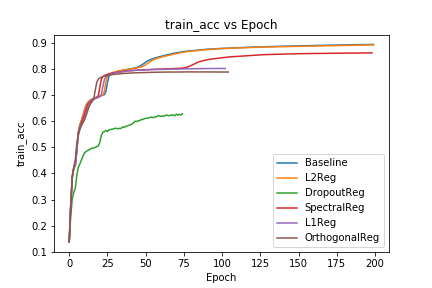
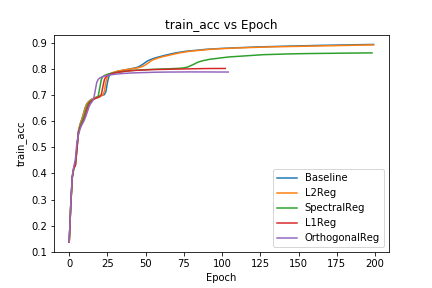
add cifar data

diff --git a/MNIST_experiment/visualize.py b/MNIST_experiment/visualize.py
@@ -1,6 +1,6 @@
 #%%
 import neptune
-project = neptune.init('gebob19/672-mnist')
+project = neptune.init('gebob19/672-cifar')
 
 # %%
 exps = project.get_experiments()
@@ -9,37 +9,43 @@ best_exps = [e for e in exps if 'best' in e.get_tags()]
 # %%
 def get_values(experiment):
     channel_names = list(experiment.get_logs().keys())
-    data = experiment.get_numeric_channels_values(*channel_names[:-1])
+    data = experiment.get_numeric_channels_values(*channel_names)
     return data 
 
 #%%
 best_exps_values = [get_values(e) for e in best_exps]
 
-#%%
-for data, exp in zip(best_exps_values, best_exps):
-    name = exp.name
-    l = exp.get_parameters()['reg_constant']
-    if name == 'DropoutReg':
-        l = exp.get_parameters()['dropout_constant']
-    if name == 'Baseline':
-        l = 'n/a'
-    test_acc = data['test_acc'].values[-1]
-    train_acc = data['train_acc'].values[-2]
-    loss = data['loss'].values[-2]
-    largest_singular_value = data['sum_singular_value'].values[-2]
-    w_norm = data['w_norm'].values[-2]
-
-    print('{}: {:.2f} {:.2f} {} {:.2f} {:.2f}'.format(name, test_acc, train_acc, l, largest_singular_value, w_norm)) 
-
-#%%
+# #%%
 # # remove dropout for better visualizations 
+# exp_names = [e.name for e in best_exps]
 # dropout_index = exp_names.index('DropoutReg')
 # del best_exps[dropout_index]
 # del best_exps_values[dropout_index]
 
 #%%
+for data, exp in zip(best_exps_values, best_exps):
+    name = exp.name
+    params = exp.get_parameters()
+    l = params['reg_constant']
+    if name == 'DropoutReg':
+        l = params['dropout_constant']
+    if name == 'Baseline':
+        l = 'n/a'
+    test_acc = data['test_acc'].values[-1]
+    train_acc = data['train_acc'].values[-2]
+    kreg, dreg = params['kernel_regularization'], params['dense_regularization']
+
+    # loss = data['loss'].values[-2]
+    # largest_singular_value = data['sum_singular_value'].values[-2]
+    # w_norm = data['w_norm'].values[-2]
+
+    # print('{}: {:.2f} {:.2f} {} {:.2f} {:.2f}'.format(name, test_acc, train_acc, l, largest_singular_value, w_norm)) 
+
+    print('{}: {:.3f} {:.3f} {} {}'.format(name, test_acc, train_acc, kreg, dreg)) 
+
+#%%
 import pathlib 
-chart_dir = pathlib.Path()/'charts/'
+chart_dir = pathlib.Path()/'charts-cifar/'
 chart_dir.mkdir(exist_ok=True, parents=True)
 
 # %%
